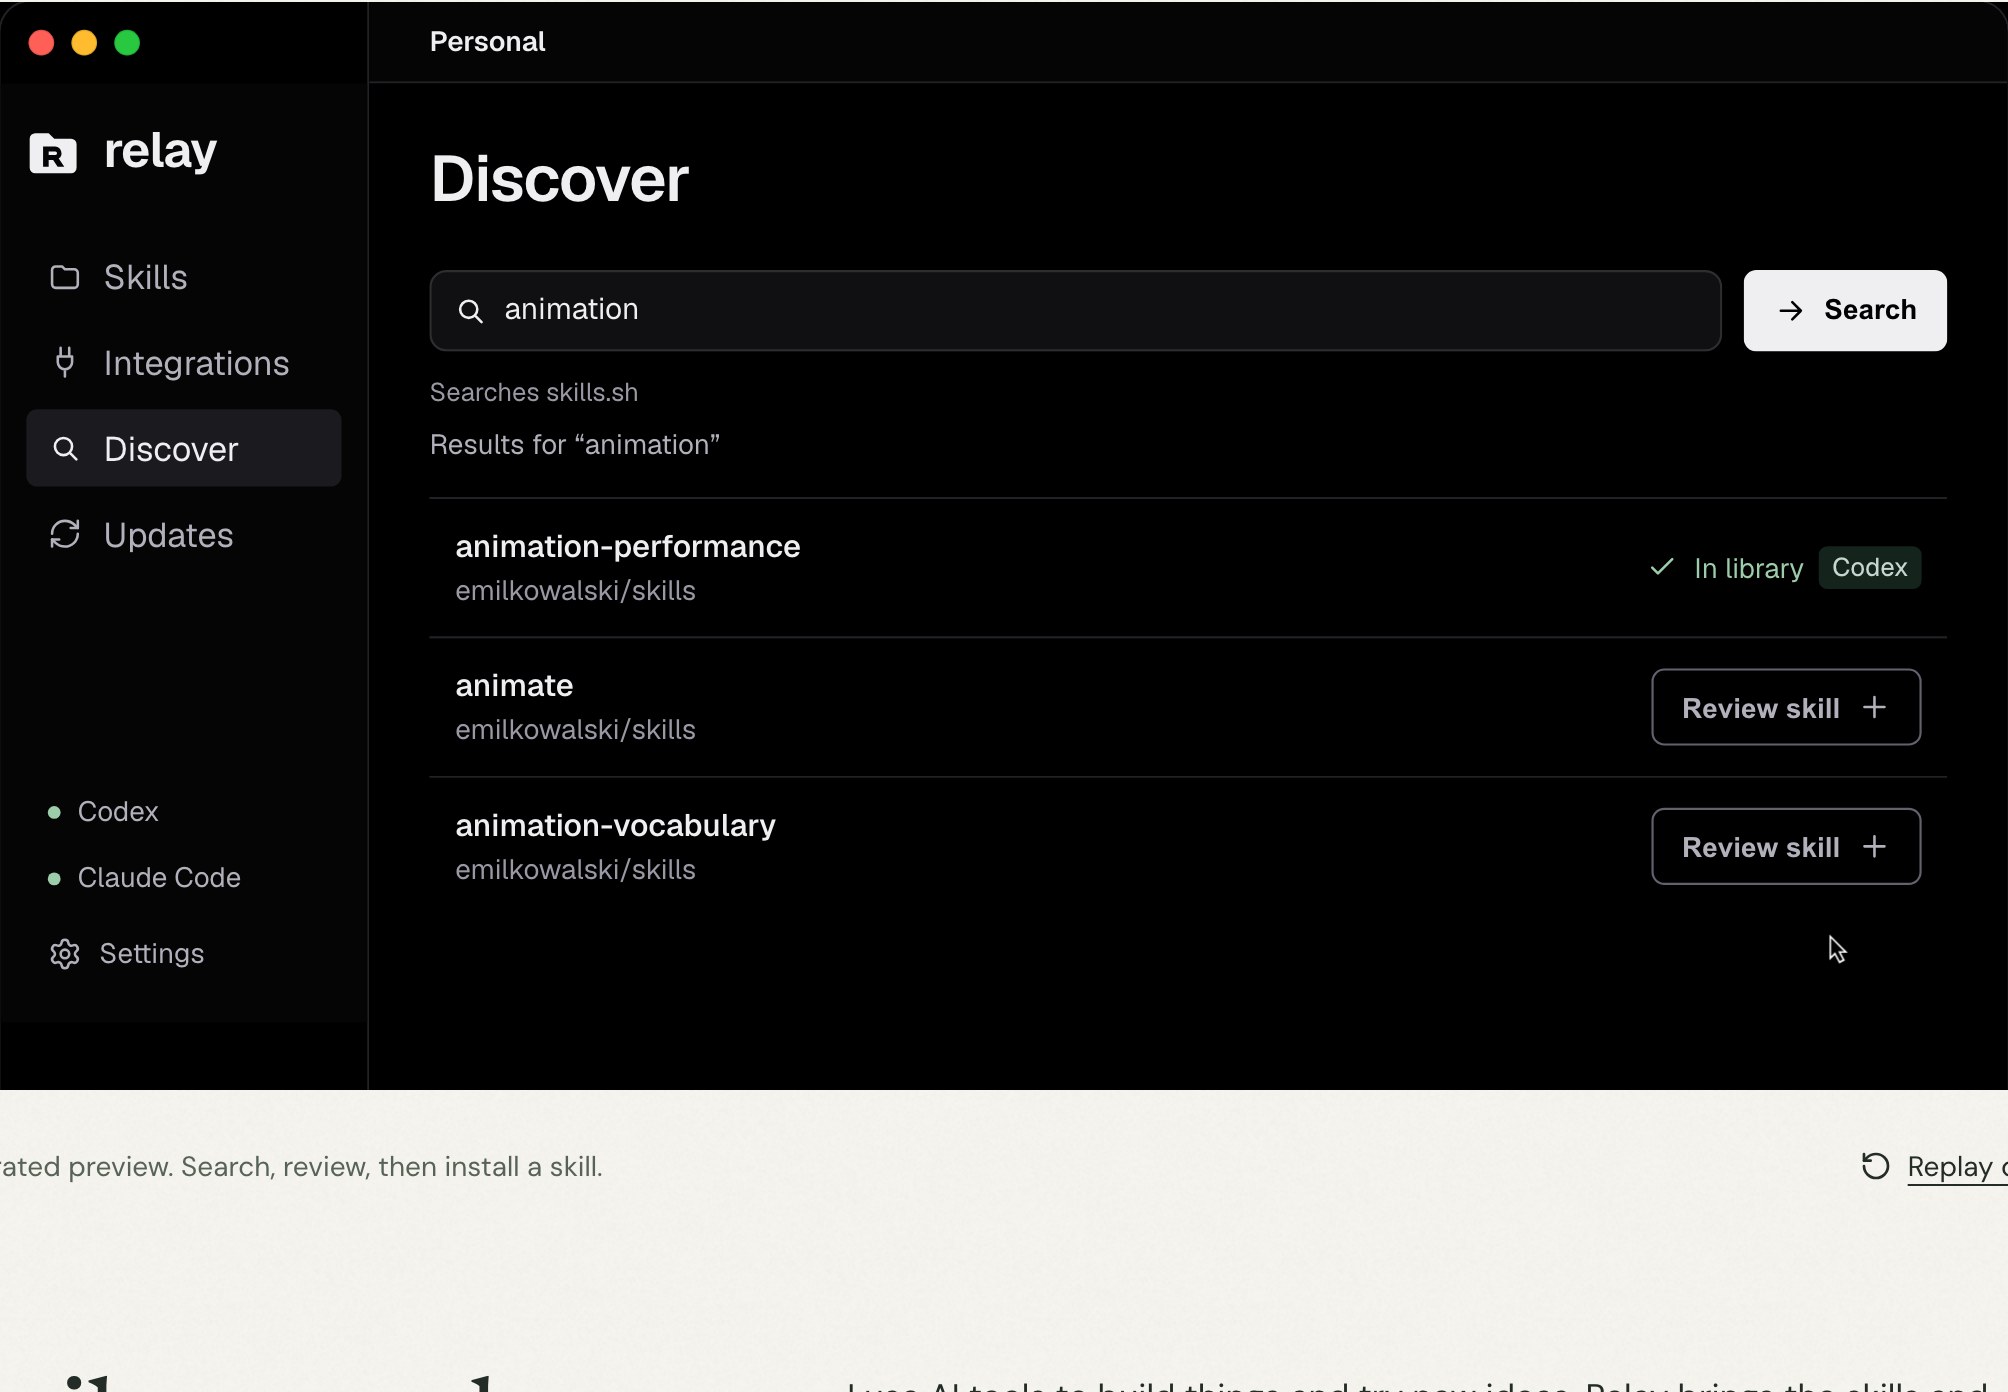
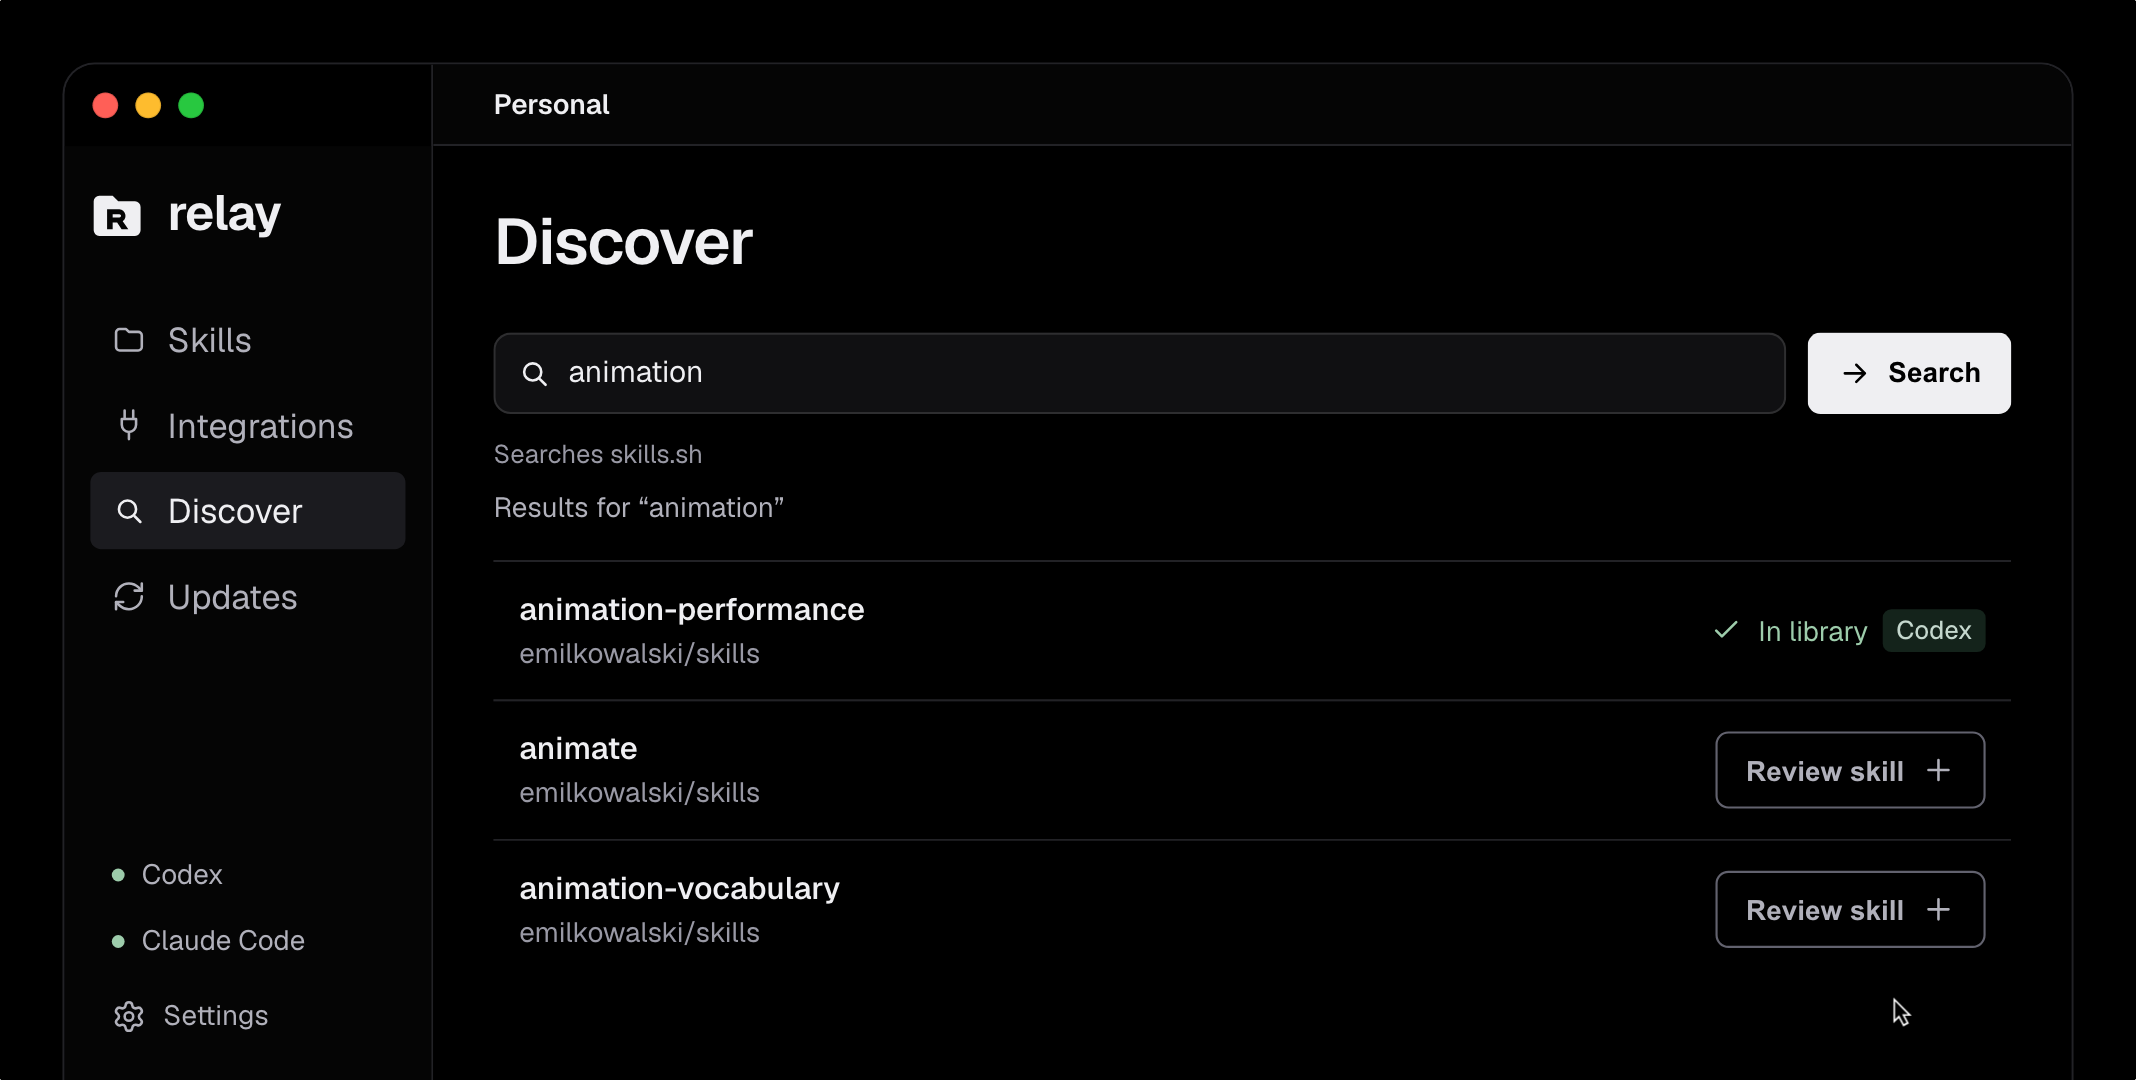
Correct Relay preview capture bounds

diff --git a/README.md b/README.md
@@ -12,7 +12,7 @@ Margin and Relay are in development. Their cards open illustrated, animated prev
 
 <a href="https://github.com/mferuscomelo/procura-iq"><picture><source media="(max-width: 600px)" srcset="https://raw.githubusercontent.com/optimelv/optimelv/main/assets/projects/procuraiq-mobile-v2.png" /><img src="assets/projects/procuraiq-v2.png" alt="ProcuraIQ: ingredient analysis and supplier comparisons. Pitch artwork by Spherecast." width="100%" /></picture></a>
 <a href="https://melvin.ai.studio/in-the-works#margin"><picture><source media="(max-width: 600px)" srcset="https://raw.githubusercontent.com/optimelv/optimelv/main/assets/projects/margin-mobile-retina-v3.png" /><img src="assets/projects/margin-retina-v3.png" alt="Margin: illustrated product preview. In development. Open the animated demo." width="100%" /></picture></a>
-<a href="https://melvin.ai.studio/in-the-works#relay"><picture><source media="(max-width: 600px)" srcset="https://raw.githubusercontent.com/optimelv/optimelv/main/assets/projects/relay-mobile-retina-v3.png" /><img src="assets/projects/relay-retina-v3.png" alt="Relay: illustrated product preview. In development. Open the animated demo." width="100%" /></picture></a>
+<a href="https://melvin.ai.studio/in-the-works#relay"><picture><source media="(max-width: 600px)" srcset="https://raw.githubusercontent.com/optimelv/optimelv/main/assets/projects/relay-mobile-retina-v4.png" /><img src="assets/projects/relay-retina-v4.png" alt="Relay: illustrated product preview. In development. Open the animated demo." width="100%" /></picture></a>
 
 ## More projects
 
